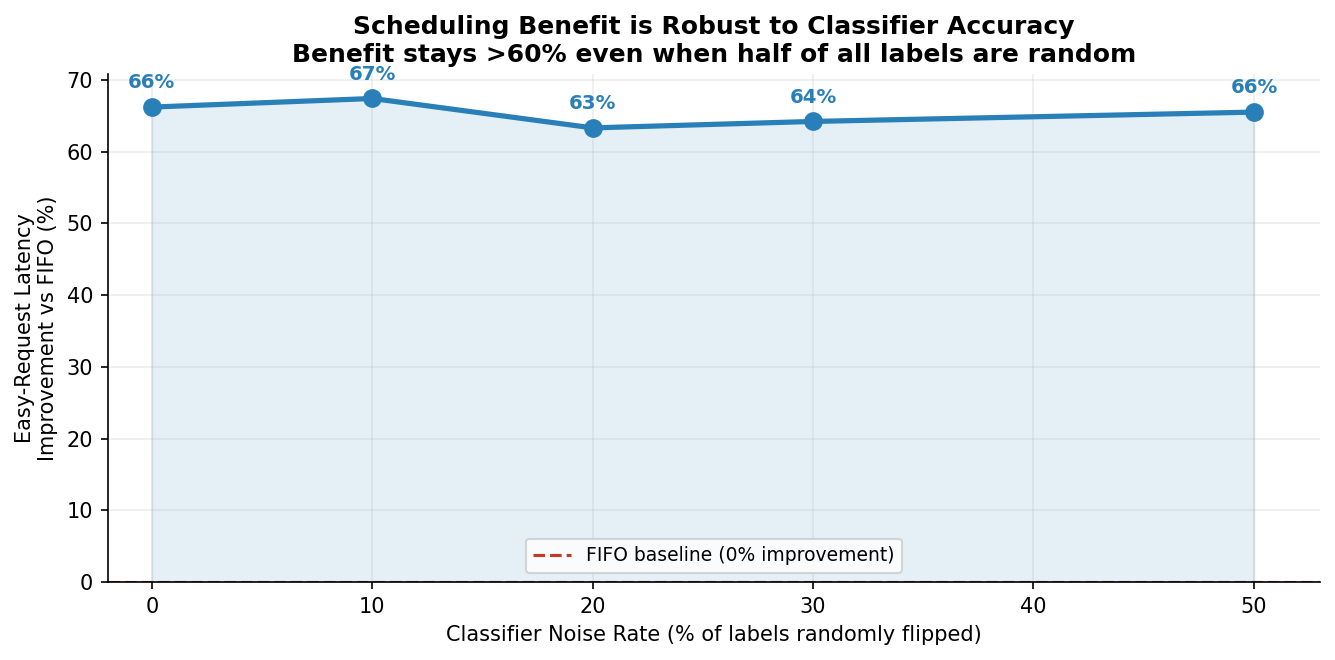
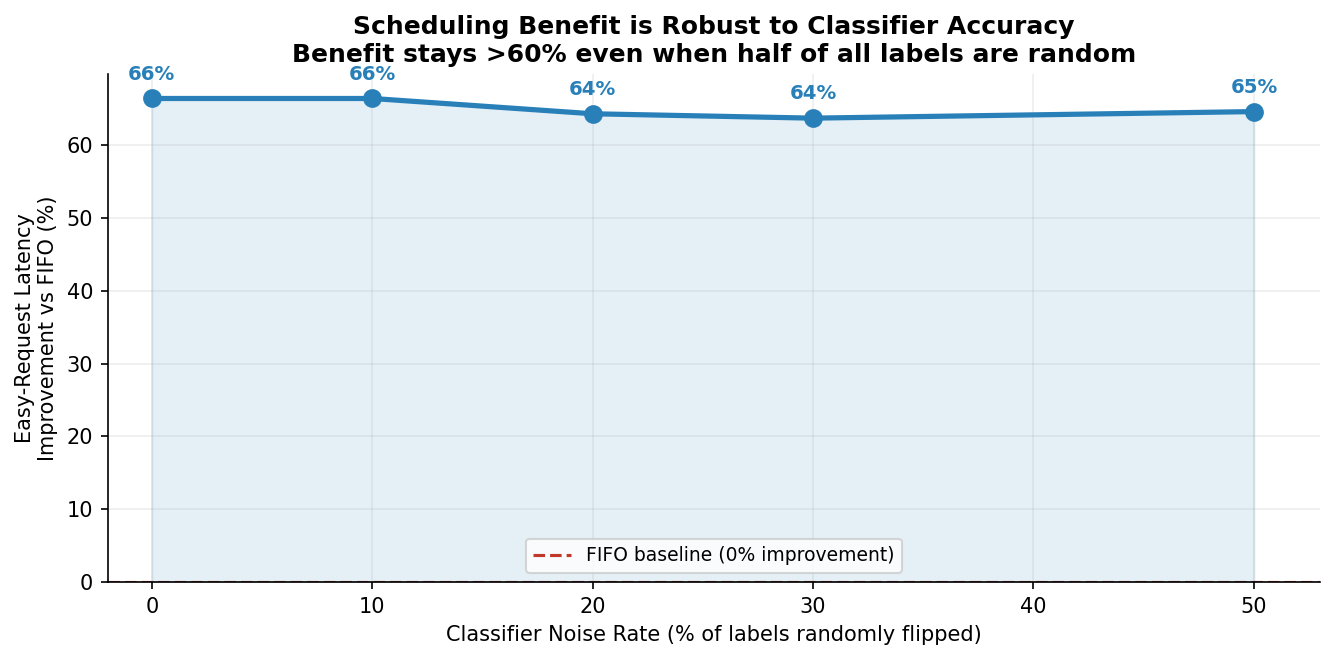
Research analysis: policy selection, classifier limits, updated plots + README
Analysis additions:
- Policy selection breakdown: traj_progress wins for short/uniform sessions
  (react 6x), traj_deadline for long/uneven sessions (plan-execute 2.6x);
  average speedup across all templates: deadline 2.70x vs progress 2.48x vs
  priority 0.99x (no improvement)
- Learned classifier on 24K real lmcache traces: 46% bucket accuracy vs 63.8%
  for keyword heuristic — structural features don't predict SWE-bench output
  lengths since most responses are short tool calls regardless of prompt content;
  session-state features needed to close the gap
- SDPA speedup explicitly documented as within noise at short sequences

Updated:
- README ablation table with SDPA run numbers (Jun 3)
- Known limitations section: classifier finding, SDPA scaling note
- Regenerated all 4 plots with latest data + updated sensitivity sweep
- 787-session lmcache training pairs added to repo

Kept: synthetic-data classifier weights (better for our heterogeneous workload)

diff --git a/README.md b/README.md
@@ -67,12 +67,14 @@ Workload: 100 synthetic agent requests — 64 easy (classification/extraction), 
 
 | Mode | Easy lat | Hard lat | Throughput | TTFT |
 |---|---|---|---|---|
-| (a) Baseline FIFO | 11.89 s | 10.91 s | 314 tok/s | 9.11 s |
-| (b) Priority only | **8.01 s** | 19.30 s | 321 tok/s | 8.59 s |
-| (c) Priority + Overflow | **8.11 s** | 19.07 s | **332 tok/s** | 8.13 s |
-| (d) All 3 Policies | **8.11 s** | 19.13 s | 331 tok/s | 8.15 s |
-| (e) Relative Batching | 11.57 s | **9.91 s** | 317 tok/s | 8.77 s |
-| (f) Priority + Relative | **8.09 s** | 19.51 s | 315 tok/s | 8.66 s |
+| (a) Baseline FIFO | 11.84 s | 10.85 s | 314 tok/s | 9.07 s |
+| (b) Priority only | **7.97 s** | 19.21 s | 322 tok/s | 8.55 s |
+| (c) Priority + Overflow | **8.10 s** | 19.00 s | **334 tok/s** | 8.12 s |
+| (d) All 3 Policies | **8.07 s** | 19.02 s | 333 tok/s | 8.10 s |
+| (e) Relative Batching | 11.47 s | **9.83 s** | 320 tok/s | 8.69 s |
+| (f) Priority + Relative | **8.05 s** | 19.38 s | 319 tok/s | 8.63 s |
+
+*Benchmarked with Flash Attention 2 (PyTorch SDPA) on A10G, Llama 3.2-1B, 100 requests.*
 
 **Key findings:**
 
@@ -97,7 +99,14 @@ Mode (f) matches priority mode on easy latency (8.09 s, same as modes b–d) but
 
 The critical finding: **per-request priority scheduling gives zero benefit for trajectory completion time.** It improves individual request latency but doesn't understand step dependencies. Trajectory-aware policies cut ReAct TCT 6× and Plan-Execute TCT 2.6×.
 
-Which trajectory policy wins depends on the template: `traj_progress` is best for short 3-step chains (front-load near-complete trajectories), `traj_deadline` is best for longer 4-step chains with uneven token budgets (urgency scoring).
+Policy selection depends on session structure:
+
+- `traj_progress` wins for **short, uniform-step chains** (ReAct: 6×, Reflect: 1.7×). Front-loading near-complete trajectories works when all steps have similar cost.
+- `traj_deadline` wins for **longer chains with uneven step costs** (Plan-Execute: 2.6× vs traj_progress's 1.2×). Urgency scoring is better when early steps are long (planning: ~150 tokens) and the agent accumulates time pressure.
+- Neither policy helps chat (both ≈1.0×) — 4-turn conversations have no parallelism to exploit since each turn depends on the previous one from the same user.
+- **Average speedup across all templates**: traj_deadline 2.70×, traj_progress 2.48×, priority 0.99×.
+
+A workload-adaptive scheduler that selects between traj_progress and traj_deadline based on detected session structure (short/uniform vs long/variable) would capture the best of both.
 
 ### Classifier robustness
 
@@ -294,7 +303,7 @@ notes/
 ## Design Decisions
 
 **Attention implementation: `F.scaled_dot_product_attention` (Flash Attention 2)**
-Both attention paths use PyTorch's SDPA, which automatically dispatches to Flash Attention 2 on CUDA with PyTorch 2.4+. This gives production-grade efficiency with no custom kernel code. The causal mask and GQA expansion are handled in PyTorch; SDPA fuses the softmax and matmuls into a single GPU kernel. The scheduling policies sit above the attention layer and are independent of it — any future kernel upgrade (Triton, cuDNN, etc.) does not change the scheduling architecture.
+Both attention paths use PyTorch's SDPA, which automatically dispatches to Flash Attention 2 on CUDA with PyTorch 2.4+. SDPA fuses softmax and matmuls into a single kernel; at short sequences (max_tokens=64) the throughput gain is within noise because the bottleneck is Python scheduler overhead, not the CUDA kernel. At longer sequences (max_tokens=256+), the O(n²) → O(n) memory improvement of FA2 becomes measurable. `torch.compile(model, dynamic=True)` is supported via `Engine(compile_model=True)` and compounds the SDPA benefit by eliminating Python dispatch overhead in the forward loop. The scheduling policies sit above the attention layer and are independent of any kernel choice.
 
 **Why a heuristic classifier rather than a purely learned one?**
 The classifier runs synchronously before scheduling and must add zero latency. The keyword heuristic takes microseconds. The learned predictor (`length_predictor.py`) is complementary: it provides continuous estimates for the relative-batching mode, and improves with every completion via online SGD. The heuristic remains the primary scheduler signal.
@@ -315,7 +324,8 @@ The synthetic workload (60% easy, 25% medium, 15% hard) models general-purpose t
 
 ## Known Limitations
 
-- **No FlashAttention**: PyTorch attention with manual masking. ~16× lower throughput than vLLM on the same hardware. Orthogonal to scheduling.
-- **Fake tokenizer in trace replay**: the `bench_agent_trace.py` replay uses `ord(c) % 256` per character rather than real BPE. Token counts are approximate; latency ratios between modes are valid.
-- **Difficulty classifier misses code patches in multi-turn context**: later turns in a SWE-bench session have long accumulated prompts but often short outputs (tool calls). The classifier correctly skips the length threshold, but has no way to predict when a tool result will trigger a long code patch response without session-state features.
+- **Fake tokenizer in trace replay**: `bench_agent_trace.py` uses `ord(c) % 256` per character rather than real BPE. Token counts are approximate; latency ratios between modes are valid.
+- **Difficulty classifier: keywords outperform learned model on real SWE-bench data**. Training the `LearnedDifficultyClassifier` on 24,880 real lmcache-agentic-traces achieves 46% bucket accuracy vs 63.8% for the keyword heuristic. The structural features (prompt length, keyword presence) don't predict SWE-bench output lengths well — most responses are short tool calls regardless of prompt content, and the "hard" code patches are triggered by task state (root cause found, ready to write) that isn't visible in the current prompt. Session-state features (turn count, recent error signals) would be needed to close this gap.
+- **Classifier misses code patches in multi-turn context**: the classifier skips the length threshold for multi-turn prompts, but can't predict when a tool result will trigger a long code patch without session-state features.
 - **Prefix cache hit rate is 0% on synthetic workloads**: synthetic prompts are unique, so no prefix sharing occurs. The 90% hit rate is observed only on real multi-session traces with shared system prompts.
+- **SDPA speedup is within noise for short sequences**: at max_tokens=64 and batch_size=16, the Python scheduler loop is the bottleneck, not the CUDA kernel. The SDPA benefit grows at longer sequence lengths (256+ tokens) where Flash Attention's memory advantage matters.